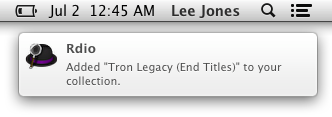
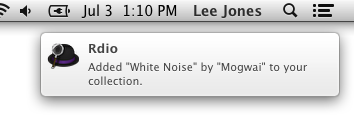
Update screen shots in readme

Changed region(s): [[0.0301, 0.2564, 0.9639, 0.9231], [0.0, 0.0256, 1.0, 0.2051]]

diff --git a/README.md b/README.md
@@ -6,7 +6,7 @@ Control Rdio.app from Alfred including:
 * play/pause
 * next/previous
 
-Includes output to Notification Center.
+Includes output to Notification Center:
 
 ![Rdio Alfred Workflow in Notification Center](docs/notification.png)
 
@@ -31,7 +31,7 @@ If no command is given, the workflow will launch Rdio.app (or bring it to the fo
 ## Requirements
 
 * [Alfred v2](http://www.alfredapp.com)
-* [Rdio.app](http://www.rdio.com/apps/)
+* [Rdio.app](http://www.rdio.com/apps/) (OS X client for Rdio)
 
 ## Installation
 
